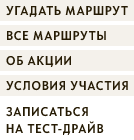
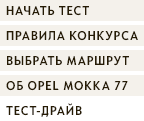
changed styles

diff --git a/app/assets/stylesheets/widget_styles.css.scss b/app/assets/stylesheets/widget_styles.css.scss
@@ -1,4 +1,3 @@
-
 .bg {
   position: absolute;
   width: $widget-width;
@@ -9,7 +8,7 @@
 
 .start-btn {
   position: absolute;
-  width: 225px;
+  width: 250px;
   height: 44px;
   background: inline('inline/start_btn.png') 0 0 no-repeat;
 
@@ -214,7 +213,8 @@
 
   #map {
     width: 100%;
-    height: 100%;
+    height: 192px;
+    margin-top: 58px;
   }
 
   .map-title {
@@ -380,8 +380,18 @@
         margin-bottom: 4px;
       }
 
-      .menu-calendar {
-        width: 134px;
+      .menu-start {
+        width: 144px;
+        height: 21px;
+        background: inline('inline/menu_text.png') 0 0px no-repeat;
+
+        &:hover {
+          background: inline('inline/menu_text_hover.png') 0 0px no-repeat;
+        }
+      }
+
+      .menu-rules {
+        width: 144px;
         height: 21px;
         background: inline('inline/menu_text.png') 0 -25px no-repeat;
 
@@ -390,8 +400,8 @@
         }
       }
 
-      .menu-about {
-        width: 134px;
+      .menu-calendar {
+        width: 144px;
         height: 21px;
         background: inline('inline/menu_text.png') 0 -50px no-repeat;
 
@@ -400,8 +410,8 @@
         }
       }
 
-      .menu-rules {
-        width: 134px;
+      .menu-about {
+        width: 144px;
         height: 21px;
         background: inline('inline/menu_text.png') 0 -75px no-repeat;
 
@@ -411,7 +421,7 @@
       }
 
       .menu-drive {
-        width: 134px;
+        width: 144px;
         height: 40px;
         background: inline('inline/menu_text.png') 0 -100px no-repeat;
 
@@ -419,7 +429,6 @@
           background: inline('inline/menu_text_hover.png') 0 -100px no-repeat;
         }
       }
-
 
     }
 

diff --git a/app/assets/javascripts/map.js b/app/assets/javascripts/map.js
@@ -11,9 +11,9 @@ function renderMarkers(map, pins)
 
   var image = {
     url: $('#map').attr('data-pin-url'),
-    size: new google.maps.Size(25, 35),
+    size: new google.maps.Size(28, 42),
     origin: new google.maps.Point(0, 0),
-    anchor: new google.maps.Point(25, 35)
+    anchor: new google.maps.Point(28, 42)
   };
 
   var pinMarker;
